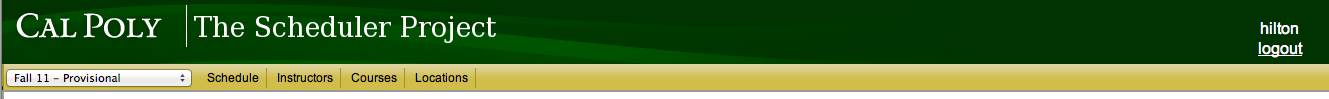
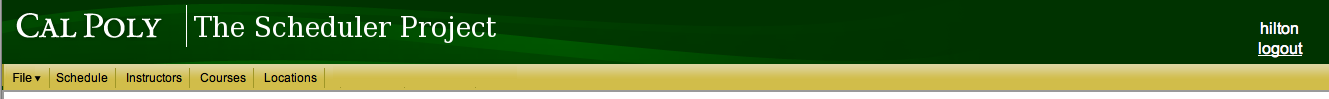
Added settings bar to prototype, and did userinterface requirements
git-svn-id: svn+ssh://scheduler.csc.calpoly.edu/repo@1721 13b268f7-8392-4c9d-bc7d-1e80a86bc2f9

Changed region(s): [[0.0, 0.697, 0.3702, 0.8788]]

diff --git a/requirements/userInterface.html b/requirements/userInterface.html
@@ -11,15 +11,13 @@
 <body bgcolor = white> 
 <a name="user_interface"> 
 <p>The User Interface Overview will deal will all the user interface objects that are common across multiple pages.  The specific user interface elements on each page will be explained on that specific page. <BR>
-	There will be no data preloaded, so the first time the system is opened, it will be without data.  There will need to be data entry when the system is first started.<BR>
-		Also, all these screens are what an Administrator would see. An Instructor would only see the Title Header (Figure 2.1.1), not the Full Header (Figure 2.1.2)
 	 </p>
 <h3> 
 2.1.1 Main User Interface
 </h3> 
 </a> 
-<p> 
-Before an administrator has logged in and chosen which schedule they want to work with, they will be presented with a simple header that is not dynamic, but is mostly just a placeholder. 
+<p>
+At the top of all pages will be the top green header, see Fig. 2.1.1.
 <br> 
 <hr> 
 <a name="Title Header"> 
@@ -29,39 +27,37 @@ Before an administrator has logged in and chosen which schedule they want to wor
 <p align=center> Figure 2.1.1: Title Header</p> 
 <hr> 
 </a> 
-<p>Once the administrator is logged in and has chosen a schedule to work with, they will see the full interface on every page they visit.  At any time they can use the links to jump to another section of the application. </p>
-
+<p>
+After the user has logged in via the login page, they will see two labels on the top right: their username, and a logout link.
+</p>
+<a name="Title Header"> 
+<p align=center> 
+<img src="images/UI_GreenHeaderWUsername.png" border="2"> 
+</p> 
+<p align=center> Figure 2.1.1: Title Header</p> 
+<hr> 
+</a>
+<p>
+In all pages except for the login page and the home page, they will see the full top interface on every page they visit, including the top green header and the menu bar. The menu bar is used for navigation. </p>
 <hr> 
 <a name="Full Header"> 
 <p align=center> 
-<img src="images/UI_TopBarNormal.png" border="2"> 
+<img src="images/UI_GreenHeaderWMenuBar.png" border="2"> 
 </p> 
 <p align=center> Figure 2.1.2: Full Header</p> 
 <hr>
 <p>
-	On the far right of the header they will see the current logged in username, and there will be a link for them to log out. As seen in <a href="#Full Header">Figure 2.1.2.</a>
-	<BR><BR>
-The dropdown field shows the current schedule that is selected, and provides an easy way to switch between schedules.
-<br>
-The Schedule Button takes the administrator to the <a href="basic_schedule_generation.html">Schedule Setup</a> page where the administrator can view, edit and export a schedule.
+The File button opens the File menu (see section 2.6).
 <br>
 The Instructors Button takes the administrator to the <a href="resource-management.html#Manage Instructors">Instructor Overview</a> page where the administrator can manage the Instructors data in the system.
 <br>
 The Courses Button takes the administrator to the <a href="resource-management.html#Manage Courses">Course Overview</a> page where the administrator can manage the Courses data in the system.
 <br>
 The Locations Button takes the administrator to the <a href="resource-management.html#Manage Locations">Location Overview</a> page where the administrator can manage the Locations data in the system.
-</p>  
-<p>When the administrator clicks on the current schedule name, they get a drop down menu with all the current schedules, and they can quickly choose to manage another schedule.
-This can be seen in <a href="#Schedule Chooser Menu">Figure 2.1.3.</a></p>
-<hr> 
-<a name="Schedule Chooser Menu"> 
-<p align=center> 
-<img src="images/UI_TopBarWithMenu.png" border="2"> 
-</p> 
-<p align=center> Figure 2.1.3: Schedule Chooser Menu</p> 
-<hr> 
-</a> 
-
+<br>
+The Schedule Button takes the administrator to the <a href="basic_schedule_generation.html">Schedule Setup</a> page where the administrator can view, edit and export a schedule.
+</p>
+<hr>
 <a name="login">
 <h3>
 2.1.2 User Login
@@ -76,7 +72,7 @@ Upon starting the application, the user is greeted with the main login screen, s
 </p>
 <p align="center"> Figure 2.1.2.1:  The Login screen </p>
 <hr>
-<p>The system consults the user's credentials to determine if they are an administrator or instructor. Instructors are taken to the instructor page, where they may manage their <a href="instructor-preferences.html">preferences</a> and <a href="ViewRequirements.html">view</a> proposed schedules. Administrators are taken to the home page, shown below, and have access to the full program.</p>
+<p>The user is taken to the home page, shown below.</p>
 
 <a name="Home_Screen"> 
 <h3> 
@@ -116,3 +112,7 @@ Next: </font><a href="basic_schedule_generation.html">Basic Schedule Creation</a
 <hr size="3" width="80%"></center>
 </body> 
 </html> 
+
+
+
+There will be no data preloaded, so the first time the system is opened, it will be without data.  There will need to be data entry when the system is first started.

diff --git a/implementation/GWTView/src/edu/calpoly/csc/scheduler/view/web/client/views/SelectScheduleView.java b/implementation/GWTView/src/edu/calpoly/csc/scheduler/view/web/client/views/SelectScheduleView.java
@@ -40,6 +40,7 @@ public class SelectScheduleView extends VerticalPanel implements IViewContents {
 	
 	private final MenuBar menuBar;
 	MenuItem fileMenuItem;
+	MenuItem settingsMenuItem;
 	
 	private final String username;
 	private ListBox listBox;
@@ -107,7 +108,7 @@ public class SelectScheduleView extends VerticalPanel implements IViewContents {
 		DOM.setElementAttribute(importItem.getElement(), "id", "importItem");
 		fileMenu.addItem(importItem);
 		
-		MenuItem saveAsItem = new MenuItem("Copy As...", true, new Command() {
+		MenuItem saveAsItem = new MenuItem("Save As...", true, new Command() {
 			public void execute() {
 				displaySaveAsPopup();
 			}
@@ -147,6 +148,39 @@ public class SelectScheduleView extends VerticalPanel implements IViewContents {
 		
 		fileMenuItem = new MenuItem("File v", true, fileMenu);
 		DOM.setElementAttribute(fileMenuItem.getElement(), "id", "FileVIitem");
+		
+		
+		
+
+		MenuBar settingsMenu = new MenuBar(true);
+		DOM.setElementAttribute(fileMenu.getElement(), "id", "settingsMenu");
+
+		MenuItem timesItem = new MenuItem("Times", true, new Command() {
+			public void execute() {
+				Window.alert("Unimplemented");
+			}
+		});
+		DOM.setElementAttribute(timesItem.getElement(), "id", "timesItem");
+		settingsMenu.addItem(timesItem);
+
+		MenuItem preferencesItem = new MenuItem("Preferences", true, new Command() {
+			public void execute() {
+				Window.alert("Unimplemented");
+			}
+		});
+		DOM.setElementAttribute(preferencesItem.getElement(), "id", "preferencesItem");
+		settingsMenu.addItem(preferencesItem);
+
+		MenuItem permissionsItem = new MenuItem("Permissions/Roles", true, new Command() {
+			public void execute() {
+				Window.alert("Unimplemented");
+			}
+		});
+		DOM.setElementAttribute(permissionsItem.getElement(), "id", "timesItem");
+		settingsMenu.addItem(permissionsItem);
+		
+		settingsMenuItem = new MenuItem("Settings v", true, settingsMenu);
+		DOM.setElementAttribute(settingsMenuItem.getElement(), "id", "SettingsItem");
 		
 		this.addStyleName("homeView");
 		
@@ -391,7 +425,7 @@ public class SelectScheduleView extends VerticalPanel implements IViewContents {
 		final TextBox tb = new TextBox();
 		final DialogBox db = new DialogBox();
 		FlowPanel fp = new FlowPanel();
-		final Button saveButton = new Button("Copy", new ClickHandler() {
+		final Button saveButton = new Button("Save", new ClickHandler() {
 			@Override
 			public void onClick(ClickEvent event) {			
 			    final String scheduleName = tb.getText();
@@ -532,10 +566,17 @@ public class SelectScheduleView extends VerticalPanel implements IViewContents {
 
 	@Override
 	public boolean canPop() { return true; }
+	
 	@Override
-	public void beforeViewPushedAboveMe() { }
+	public void beforeViewPushedAboveMe() {
+		menuBar.addItem(settingsMenuItem);
+	}
+	
 	@Override
-	public void afterViewPoppedFromAboveMe() { }
+	public void afterViewPoppedFromAboveMe() {
+		menuBar.removeItem(settingsMenuItem);
+	}
+	
 	@Override
 	public Widget getContents() { return this; }
 }

diff --git a/implementation/GWTView/src/edu/calpoly/csc/scheduler/view/web/client/views/LoginView.java b/implementation/GWTView/src/edu/calpoly/csc/scheduler/view/web/client/views/LoginView.java
@@ -111,7 +111,7 @@ public class LoginView extends VerticalPanel implements IViewContents {
 	public void beforeViewPushedAboveMe() {
 		this.usernameContainer.add(new HTML(username));
 		
-		this.logoutLinkContainer.add(HTMLUtilities.createLink("logout", "inAppLink", new ClickHandler() {
+		this.logoutLinkContainer.add(HTMLUtilities.createLink("Log Out", "inAppLink", new ClickHandler() {
 			public void onClick(ClickEvent event) {
 				if (myFrame.canPopViewsAboveMe()) {
 					myFrame.popFramesAboveMe();
